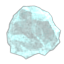
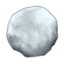
fixed resources

diff --git a/planet/Objects.c4d/Items.c4d/Resources.c4d/Earth.c4d/Script.c b/planet/Objects.c4d/Items.c4d/Resources.c4d/Earth.c4d/Script.c
@@ -4,12 +4,12 @@
 
 protected func Initialize()
 {
-	SetGraphics(Format("%d.10", Random(2)));
+	SetGraphics(Format("%d.8", Random(2)));
 }
 
 protected func Hit()
 {
-  CastPXS("Earth", 225, 18);
+  CastPXS("Earth", 200, 18);
   Sound("EarthHit*");
   RemoveObject();
   return 1;

diff --git a/planet/Objects.c4d/Items.c4d/Resources.c4d/Snow.c4d/Script.c b/planet/Objects.c4d/Items.c4d/Resources.c4d/Snow.c4d/Script.c
@@ -21,8 +21,8 @@ private func Melt()
 
 private func Hit()
 {
-	if(GetMaterial(0,3)==Material("Snow")) return 1;
-	CastPXS("Snow", 225,18);
+	CastPXS("Snow", 400,18);
+	RemoveObject();
 }
 
 func Definition(def) {

diff --git a/planet/Objects.c4d/Items.c4d/Resources.c4d/Sulphur.c4d/Script.c b/planet/Objects.c4d/Items.c4d/Resources.c4d/Sulphur.c4d/Script.c
@@ -4,7 +4,7 @@
 
 protected func Initialize()
 {
-	SetGraphics(Format("%.8",Random(2)));
+	SetGraphics(Format("%d.8",Random(2)));
 }
 
 protected func Hit()
